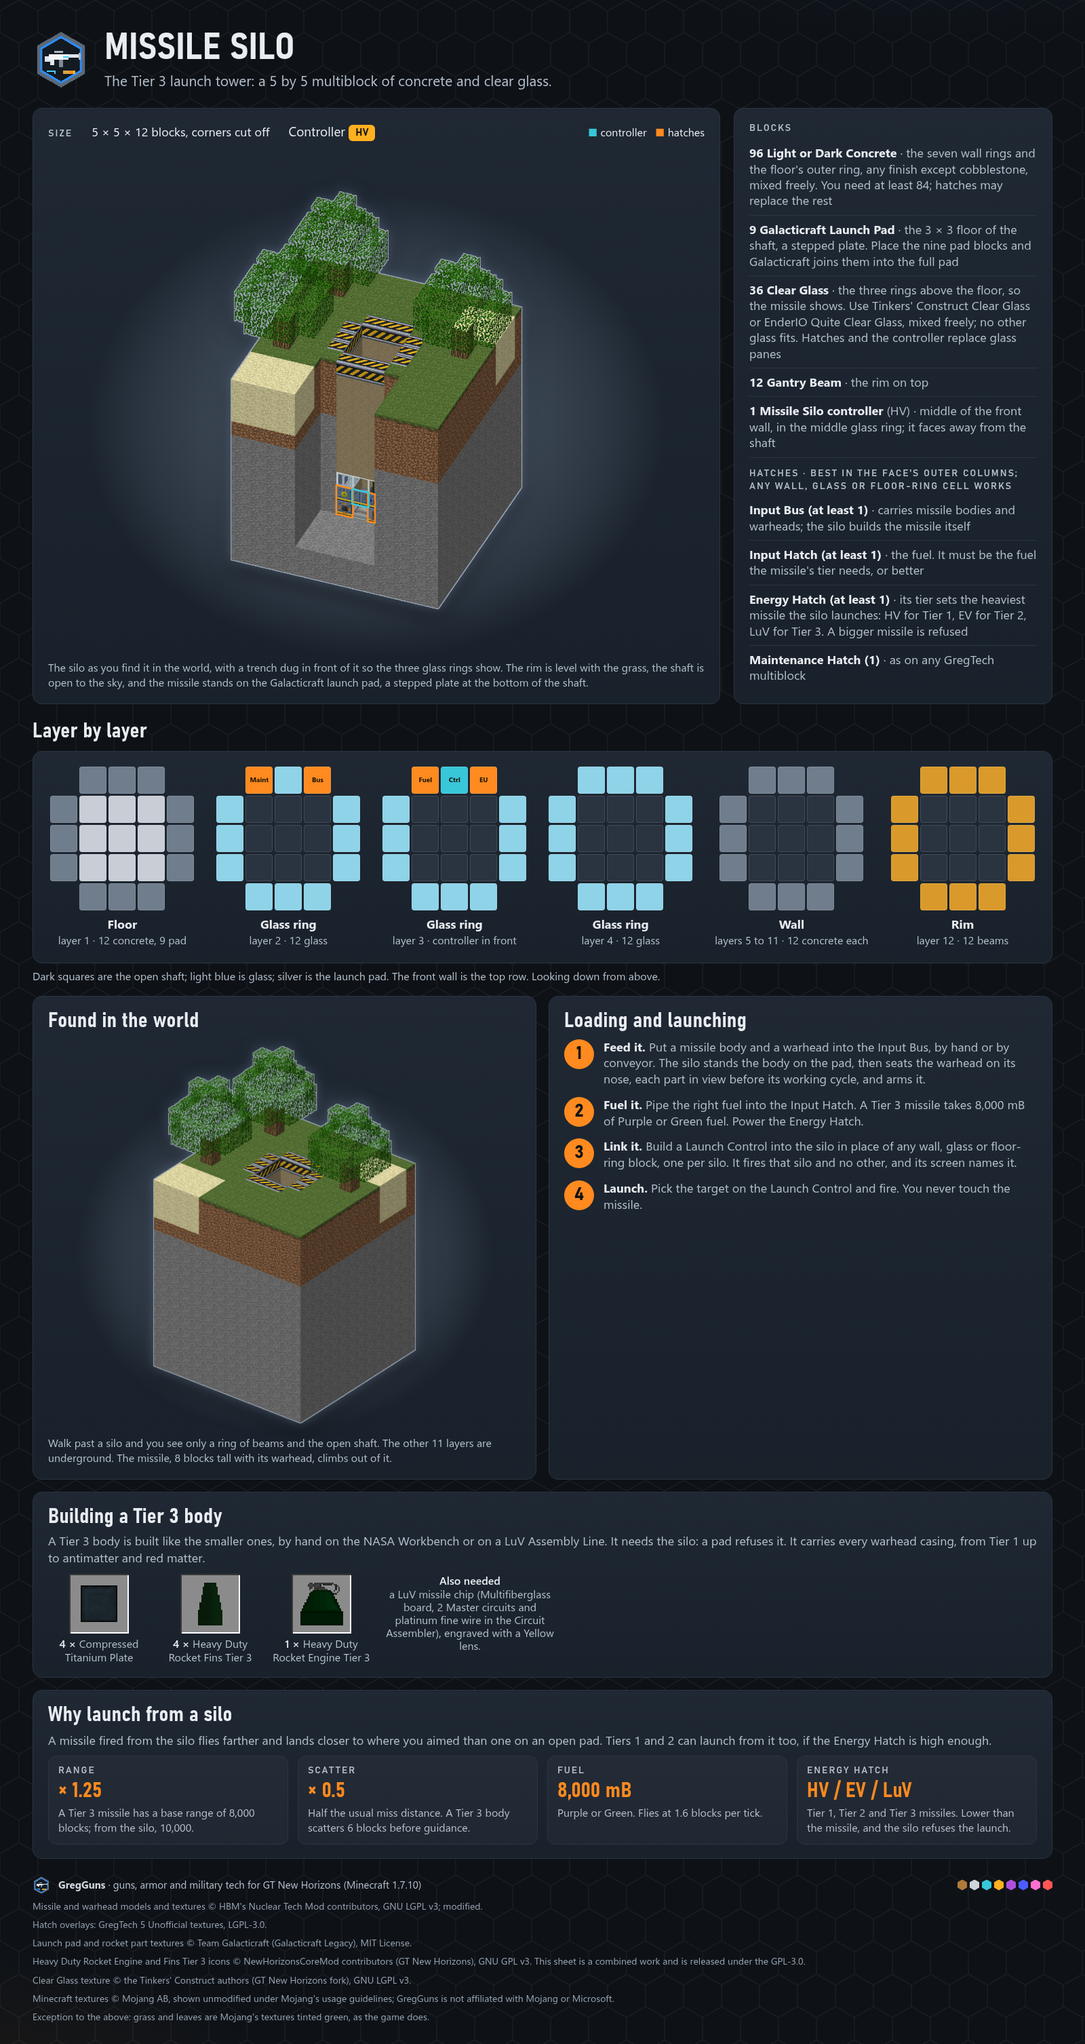
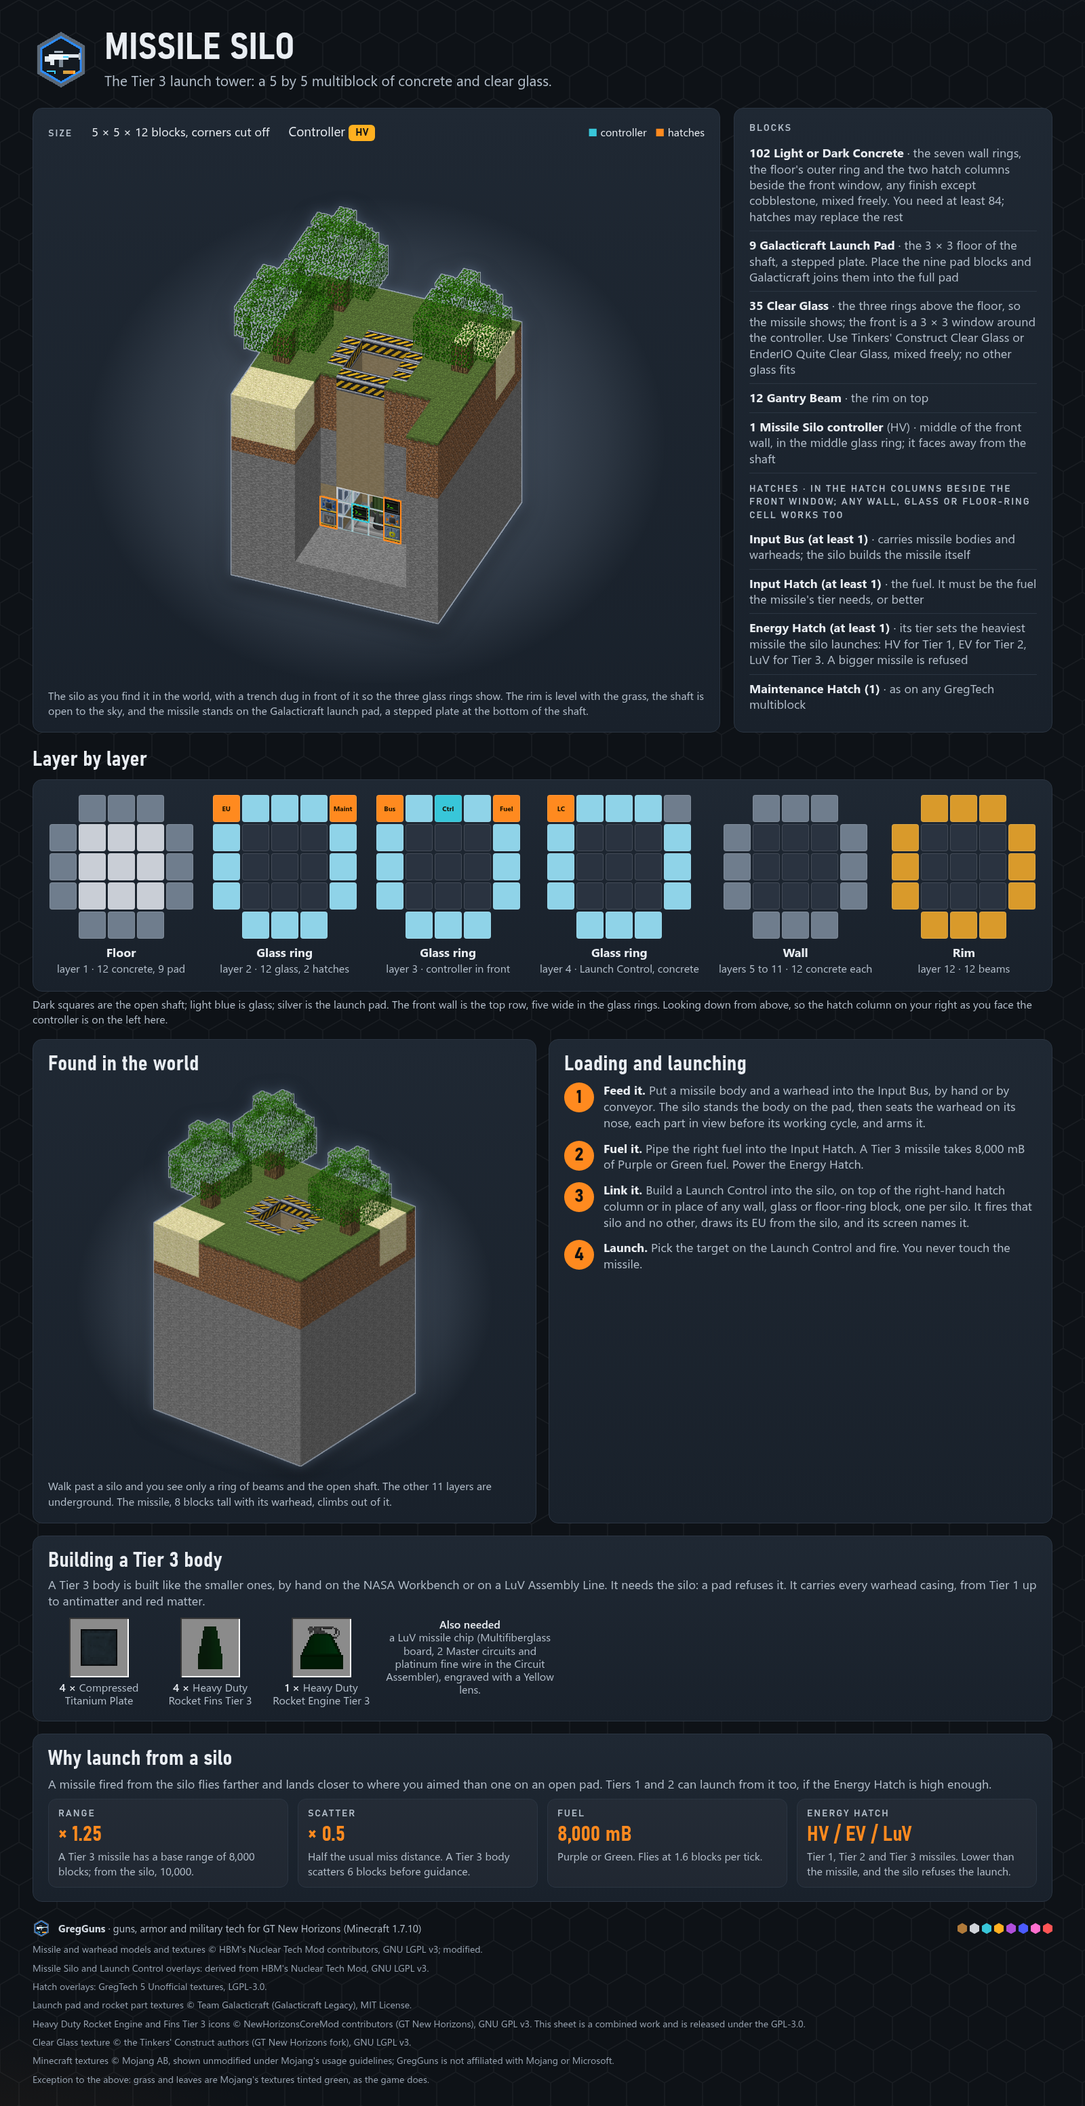
Silo guide sheets: five-wide front matching the owner's build, the silo's own Launch Control, the controller's real face, activity sign row

diff --git a/tools/asset-gen/infographics/pages_icbm_silo.py b/tools/asset-gen/infographics/pages_icbm_silo.py
@@ -3,8 +3,8 @@
 The silo is built from GregTech's Light Concrete art (walls), GregGuns' Gantry Beam art (rim) and Tinkers' Clear Glass, the hatches from GregTech's
 overlays, and the missile from the shipped NTM OBJ models seated as the game seats them. The cells come from the
 `SiloShape` strings when the silo coder's class is present; until then (and for the DRAFT stamp) they are generated
-from the layout in the silo sheet: a 5 x 5 plan with the four corners cut off, a 3 x 3 open shaft, a 21-cell floor,
-ten wall layers, and a ring of Gantry Beams on top.
+from the layout in the silo sheet: a 5 x 5 plan with the four corners cut off (but the two front ones in the glass
+rings, the hatch columns), a 3 x 3 open shaft, a 21-cell floor, ten wall layers, and a ring of Gantry Beams on top.
 
 Run on its own:  python tools/asset-gen/infographics/pages_icbm_silo.py
 """
@@ -51,13 +51,30 @@ def silo_cells() -> dict:
             cells[(x, y, z)] = "G" if y <= 3 else "C"
         cells[(x, 11, z)] = "B"
     cells[(2, 2, 0)] = "~"
+    # The front is five wide in the glass rings (D299): a hatch column of concrete on each side of the 3 x 3 window.
+    for y in range(1, 4):
+        cells[(0, y, 0)] = "C"
+        cells[(4, y, 0)] = "C"
     return cells
 
 
-# Where the sheet shows each hatch: the two outer columns of the controller's face, two high, so the missile shows through
-# the middle. Seen from the front: Input Hatch and Maintenance Hatch on the left, Energy Hatch and Input Bus on the right.
-HATCHES = [((1, 2, 0), "input_hatch", FRONT), ((1, 1, 0), "maintenance_hatch", FRONT),
-           ((3, 2, 0), "energy_hatch", FRONT), ((3, 1, 0), "input_bus", FRONT)]
+# Where the sheet shows each hatch (D299, the owner's build): the hatch columns beside the 3 x 3 glass window, two high.
+# Seen from the front: Input Hatch over Maintenance Hatch on the left, Input Bus over Energy Hatch on the right, and the
+# Launch Control on top of the right column. The renderer draws x = 0 on the right of a viewer facing the front (z = 0)
+# face, as SiloShape's column 0 is, so the right-hand column is x = 0.
+HATCHES = [((4, 2, 0), "input_hatch", FRONT), ((4, 1, 0), "maintenance_hatch", FRONT),
+           ((0, 2, 0), "input_bus", FRONT), ((0, 1, 0), "energy_hatch", FRONT)]
+LAUNCH_CONTROL = (0, 3, 0)
+LC_DIR = "thirdparty/ntm/launch_control"
+
+
+def launch_control_tex():
+    """The Launch Control as the game draws it: an HV hull with its NTM-derived overlays (top, side, front)."""
+    faces = {}
+    for face in ("TOP", "SIDE", "FRONT"):
+        faces[face] = B.composite(gt.hull("HV", "TOP" if face == "TOP" else "SIDE"), S._ov(LC_DIR, face),
+                                  cache=K.TEXCACHE, name=f"launch_control_HV_{face}")
+    return (faces["TOP"], faces["SIDE"], faces["FRONT"])
 
 
 def silo_build() -> S.Build:
@@ -66,10 +83,14 @@ def silo_build() -> S.Build:
     b.define("casing", "Light Concrete", gt.iconset("CONCRETE_LIGHT_STONE"), "walls and the floor ring; Light or Dark Concrete, any finish")
     b.define("beam", "Gantry Beam", S._casing("gantry_beam"), "the rim")
     b.define("glass", "Clear Glass", TP.TCONSTRUCT_GLASS, "Tinkers' Clear Glass or EnderIO Quite Clear Glass")
-    b.define("ctrl", "Missile Silo", (gc, gc, gc), "controller, middle of the front wall")
+    face = B.composite(gc, S._ov("thirdparty/ntm/missile_silo", "FRONT"), cache=K.TEXCACHE, name="missile_silo_FRONT")
+    b.define("ctrl", "Missile Silo", (gc, gc, face), "controller, middle of the front wall")
     b.put(silo_cells(), {"C": "casing", "G": "glass", "B": "beam", "~": ("ctrl", FRONT)})
     for pos, kind, facing in HATCHES:
         b.hatch(pos, kind, facing, gc)
+    b.define("h_launch_control", "Launch Control", launch_control_tex(), "on top of the right hatch column; it runs on the silo's EU")
+    b.blocks[LAUNCH_CONTROL] = ("h_launch_control", FRONT)
+    b.hatches.append(("h_launch_control", LAUNCH_CONTROL))
     return b
 
 
@@ -113,11 +134,13 @@ def ground_cells(extent=range(-4, 9), bottom=-3) -> dict:
 def render(b: S.Build, yaw=-35, pitch=28, ppu=34, cut=None, missile=True, marks=True, ground=False, bottom=-3) -> Path:
     files = [NTM / "missile_body_t3.obj", NTM / "warhead_t3.obj", TP.GC_PAD]
     tex_sig = hashlib.sha1(b"".join(f.read_bytes() for f in files)).hexdigest()[:8]
-    bl = dict(b.blocks)
+    bl = {}
     tex = dict(b.tex)
     if ground:
         bl.update(ground_cells(bottom=bottom))
         tex.update(TP.terrain_textures())
+    # The silo wins over the earth it is dug into (its front hatch columns stand in the cut corners).
+    bl.update(b.blocks)
     if cut is not None:
         bl = {p: v for p, v in bl.items() if not cut(*p)}
 
@@ -130,7 +153,7 @@ def render(b: S.Build, yaw=-35, pitch=28, ppu=34, cut=None, missile=True, marks=
         return R.trim(R.render(scene, yaw=yaw, pitch=pitch, ppu=ppu, ss=2, outline=K.RIM,
                                marks={1: K.MARK_HATCH, 2: K.MARK_CONTROLLER} if marks else None), 3)
     params = dict(k=sorted(map(str, bl.items())), t=sorted(map(str, tex.items())), y=yaw, p=pitch, u=ppu, m=missile,
-                  g=marks, s=tex_sig, v=7)
+                  g=marks, s=tex_sig, v=8)
     return K._cached("silo", params, make)
 
 
@@ -189,17 +212,19 @@ def silo() -> str:
     b = silo_build()
     cells = silo_cells()
     hp = {pos: HATCH_NAME[k] for pos, k, _ in HATCHES}
-    # View 2: a viewing trench dug in front of the glass rings (x 0..4, from the grass down to the shaft floor).
-    hero = render(b, yaw=-22, pitch=36, ppu=46, ground=True, bottom=-1, cut=lambda x, y, z: z < 0 and 0 <= x <= 4 and y >= 1)
+    hp[LAUNCH_CONTROL] = "LC"
+    # View 2: a viewing trench dug in front of the glass rings (from the grass down to the shaft floor), two blocks wider
+    # on the right-hand side (x < 0) so the camera, looking in from the left, sees the right-hand hatch column too.
+    hero = render(b, yaw=-22, pitch=36, ppu=46, ground=True, bottom=-1, cut=lambda x, y, z: z < 0 and -2 <= x <= 4 and y >= 1)
     # View 1: just the top shows.
     surface = render(b, yaw=-38, pitch=30, ppu=44, ground=True, missile=False, marks=False)
     n_casing = sum(1 for v in cells.values() if v == "C")
     n_glass = sum(1 for v in cells.values() if v == "G")
     n_beam = sum(1 for v in cells.values() if v == "B")
     layers = (layer_grid(0, cells, hp, "<b>Floor</b>layer 1 &middot; 12 concrete, 9 pad")
-              + layer_grid(1, cells, hp, "<b>Glass ring</b>layer 2 &middot; 12 glass")
+              + layer_grid(1, cells, hp, "<b>Glass ring</b>layer 2 &middot; 12 glass, 2 hatches")
               + layer_grid(2, cells, hp, "<b>Glass ring</b>layer 3 &middot; controller in front")
-              + layer_grid(3, cells, hp, "<b>Glass ring</b>layer 4 &middot; 12 glass")
+              + layer_grid(3, cells, hp, "<b>Glass ring</b>layer 4 &middot; Launch Control, concrete")
               + layer_grid(4, cells, hp, "<b>Wall</b>layers 5 to 11 &middot; 12 concrete each")
               + layer_grid(11, cells, {}, "<b>Rim</b>layer 12 &middot; 12 beams"))
     hatch_rows = "".join(
@@ -222,22 +247,22 @@ def silo() -> str:
 <div class="spot" style="flex:1;display:flex;align-items:center;justify-content:center;padding:10px 0;margin-top:8px">{img(hero, h=620, style="max-width:100%")}</div>
 <div class="muted" style="font-size:16px;margin-top:8px">The silo as you find it in the world, with a trench dug in front of it so the three glass rings show. The rim is level with the grass, the shaft is open to the sky, and the missile stands on the Galacticraft launch pad, a stepped plate at the bottom of the shaft.</div></div>
 <div class="card"><div class="label" style="margin-bottom:6px">Blocks</div>
-<div class="req"><div class="t" style="grid-column:1/3"><b>{n_casing} Light or Dark Concrete</b> &middot; the seven wall rings and the floor's outer ring, any finish except cobblestone, mixed freely. You need at least 84; hatches may replace the rest</div></div>
+<div class="req"><div class="t" style="grid-column:1/3"><b>{n_casing} Light or Dark Concrete</b> &middot; the seven wall rings, the floor's outer ring and the two hatch columns beside the front window, any finish except cobblestone, mixed freely. You need at least 84; hatches may replace the rest</div></div>
 <div class="req"><div class="t" style="grid-column:1/3"><b>9 Galacticraft Launch Pad</b> &middot; the 3 &times; 3 floor of the shaft, a stepped plate. Place the nine pad blocks and Galacticraft joins them into the full pad</div></div>
-<div class="req"><div class="t" style="grid-column:1/3"><b>{n_glass + 1} Clear Glass</b> &middot; the three rings above the floor, so the missile shows. Use Tinkers&#39; Construct Clear Glass or EnderIO Quite Clear Glass, mixed freely; no other glass fits. Hatches and the controller replace glass panes</div></div>
+<div class="req"><div class="t" style="grid-column:1/3"><b>{n_glass} Clear Glass</b> &middot; the three rings above the floor, so the missile shows; the front is a 3 &times; 3 window around the controller. Use Tinkers&#39; Construct Clear Glass or EnderIO Quite Clear Glass, mixed freely; no other glass fits</div></div>
 <div class="req"><div class="t" style="grid-column:1/3"><b>{n_beam} Gantry Beam</b> &middot; the rim on top</div></div>
 <div class="req"><div class="t" style="grid-column:1/3"><b>1 Missile Silo controller</b> (HV) &middot; middle of the front wall, in the middle glass ring; it faces away from the shaft</div></div>
-<div class="label" style="margin:14px 0 4px">Hatches &middot; best in the face&#39;s outer columns; any wall, glass or floor-ring cell works</div>{hatch_rows}</div></div>
+<div class="label" style="margin:14px 0 4px">Hatches &middot; in the hatch columns beside the front window; any wall, glass or floor-ring cell works too</div>{hatch_rows}</div></div>
 <h2 style="margin:24px 0 12px">Layer by layer</h2>
 <div class="card" style="display:flex;justify-content:space-around;gap:10px;padding:22px 14px">{layers}</div>
-<div class="muted" style="font-size:16px;margin-top:8px">Dark squares are the open shaft; light blue is glass; silver is the launch pad. The front wall is the top row. Looking down from above.</div>
+<div class="muted" style="font-size:16px;margin-top:8px">Dark squares are the open shaft; light blue is glass; silver is the launch pad. The front wall is the top row, five wide in the glass rings. Looking down from above, so the hatch column on your right as you face the controller is on the left here.</div>
 <div class="grid" style="grid-template-columns:1fr 1fr;margin-top:18px">
 <div class="card"><h2 style="margin-bottom:8px">Found in the world</h2><div class="spot" style="display:flex;justify-content:center;padding:10px">{img(surface, h=560, style="max-width:100%")}</div>
 <div class="muted" style="font-size:16px;margin-top:6px">Walk past a silo and you see only a ring of beams and the open shaft. The other 11 layers are underground. The missile, 8 blocks tall with its warhead, climbs out of it.</div></div>
 <div class="card"><h2 style="margin-bottom:10px">Loading and launching</h2><div style="display:flex;flex-direction:column;gap:14px">
 <div class="step"><span class="num">1</span><div class="t"><b>Feed it.</b> Put a missile body and a warhead into the Input Bus, by hand or by conveyor. The silo stands the body on the pad, then seats the warhead on its nose, each part in view before its working cycle, and arms it.</div></div>
 <div class="step"><span class="num">2</span><div class="t"><b>Fuel it.</b> Pipe the right fuel into the Input Hatch. A Tier 3 missile takes 8,000 mB of Purple or Green fuel. Power the Energy Hatch.</div></div>
-<div class="step"><span class="num">3</span><div class="t"><b>Link it.</b> Build a Launch Control into the silo in place of any wall, glass or floor-ring block, one per silo. It fires that silo and no other, and its screen names it.</div></div>
+<div class="step"><span class="num">3</span><div class="t"><b>Link it.</b> Build a Launch Control into the silo, on top of the right-hand hatch column or in place of any wall, glass or floor-ring block, one per silo. It fires that silo and no other, draws its EU from the silo, and its screen names it.</div></div>
 <div class="step"><span class="num">4</span><div class="t"><b>Launch.</b> Pick the target on the Launch Control and fire. You never touch the missile.</div></div></div></div></div>
 <div class="card" style="margin-top:18px"><h2 style="margin-bottom:6px">Building a Tier 3 body</h2>
 <div class="muted" style="font-size:18px;margin-bottom:12px">A Tier 3 body is built like the smaller ones, by hand on the NASA Workbench or on a LuV Assembly Line. It needs the silo: a pad refuses it. It carries every warhead casing, from Tier 1 up to antimatter and red matter.</div>
@@ -252,6 +277,7 @@ def silo() -> str:
     return page_doc("Missile Silo", "The Tier 3 launch tower: a 5 by 5 multiblock of concrete and clear glass.", body,
                     extra=CSS + TP.PART_CSS,
                     credit=["Missile and warhead models and textures © HBM's Nuclear Tech Mod contributors, GNU LGPL v3; modified.",
+                            "Missile Silo and Launch Control overlays: derived from HBM's Nuclear Tech Mod, GNU LGPL v3.",
                             "Hatch overlays: GregTech 5 Unofficial textures, LGPL-3.0.", TP.GC_CREDIT, TP.CORE_CREDIT, TP.TC_CREDIT,
                             MOJANG_CREDIT, TP.TINT_CREDIT])
 

diff --git a/tools/asset-gen/infographics/pages_icbm_silos.py b/tools/asset-gen/infographics/pages_icbm_silos.py
@@ -445,23 +445,17 @@ def radar_station(formed: bool) -> Path:
 
 
 def silo_front(missing: str | None) -> Path:
-    """The front wall of a complex silo, with the controller and hatches where the complex places them. missing: None, "controller" or "hatch"."""
+    """The front wall of a complex silo, with the controller, hatches and Launch Control where the complex places them
+    (D299: hatch columns beside a 3 x 3 glass window). missing: None, "controller" or "hatch"."""
     b = SILO.silo_build()
-    cells = SILO.silo_cells()
-    for pos, _, _ in SILO.HATCHES:
-        b.blocks[pos] = {"C": "casing", "G": "glass", "B": "beam"}[cells[pos]]
-    b.hatches = []
-    gc = S._casing("gantry_casing")
     b.blocks[(2, 2, 0)] = "casing" if missing == "controller" else ("ctrl", FRONT)
-    # Seen from the front: Input Hatch and Maintenance Hatch on the left, Energy Hatch and Input Bus on the right.
-    b.hatch((1, 2, 0), "input_hatch", FRONT, gc)
-    b.hatch((1, 1, 0), "maintenance_hatch", FRONT, gc)
-    b.hatch((3, 1, 0), "input_bus", FRONT, gc)
-    if missing != "hatch":
-        b.hatch((3, 2, 0), "energy_hatch", FRONT, gc)
-    else:
-        b.blocks[(3, 2, 0)] = "glass"
-    return SILO.render(b, yaw=-22, pitch=22, ppu=84, ground=False, missile=False, marks=True, cut=lambda x, y, z: y > 3 or z > 1)
+    if missing == "hatch":
+        # The Energy Hatch's cell keeps the hatch column's concrete.
+        pos = next(p for p, k, _ in SILO.HATCHES if k == "energy_hatch")
+        b.blocks[pos] = "casing"
+        b.hatches = [h for h in b.hatches if h[1] != pos]
+    return SILO.render(b, yaw=-22, pitch=22, ppu=84, ground=False, missile=False, marks=True,
+                       cut=lambda x, y, z: y > 3 or z > 1)
 
 
 def hull_block(tier: str) -> Path:
@@ -617,6 +611,7 @@ def activity_table() -> str:
         row("Silo walkways, Launch Control", shaft, "at least this chance"),
         row("Schematic chip in a chest", [pct(p["chip"]) for p in P], "Safe, Comms or Control chest"),
         row("The silo's missing part in a chest", [pct(p["part"]) for p in P], "one part per silo"),
+        row("Hub sign, Activity Level", ["Alpha", "Bravo", "Charlie"], "under the Silo Complex sign"),
     ]
     tot = sum(ACT_WEIGHTS)
     ths = "".join(f'<th style="text-align:center;color:{LEVEL_COLOR[i]};vertical-align:top;width:25%"><span style="font-size:22px">{lv}</span>'
@@ -799,13 +794,13 @@ On the Moon and Mars, rugged rooms use local rock and brick. All of it mines to 
 <div class="card"><div class="pt" style="margin-bottom:10px">Every silo in a complex is a real <b>Missile Silo</b>, built from the same structure you would build yourself, with its bus and hatches in place. Each is missing <b>exactly one part</b>. Put it back and the silo forms.</div>
 <div style="display:grid;grid-template-columns:repeat(3,1fr);gap:18px">
 <div style="text-align:center"><div class="spot">{img(front[0], h=250)}</div><div class="cap"><b style="color:var(--txt)">No controller.</b> A concrete block stands in the middle of the front wall.</div></div>
-<div style="text-align:center"><div class="spot">{img(front[1], h=250)}</div><div class="cap"><b style="color:var(--txt)">No Energy Hatch.</b> A clear glass block stands where the Energy Hatch goes, beside the controller.</div></div>
-<div style="text-align:center"><div class="spot">{img(front[2], h=250)}</div><div class="cap"><b style="color:var(--txt)">Repaired.</b> The controller (blue ring) and the hatches (orange rings) in their places.</div></div></div>
+<div style="text-align:center"><div class="spot">{img(front[1], h=250)}</div><div class="cap"><b style="color:var(--txt)">No Energy Hatch.</b> A concrete block stands where the Energy Hatch goes, at the foot of the right-hand hatch column.</div></div>
+<div style="text-align:center"><div class="spot">{img(front[2], h=250)}</div><div class="cap"><b style="color:var(--txt)">Repaired.</b> The controller (blue ring), the hatches and the silo&#39;s own Launch Control (orange rings) in their places.</div></div></div>
 <div style="display:grid;grid-template-columns:repeat(4,1fr);gap:18px;margin-top:16px">
 <div class="step"><span class="num">1</span><div class="t"><b>Clear the way.</b> An operational complex always has an elite post at each silo walkway, and a partly abandoned one often does. Mine their spawners (slow by hand), blow them up with a warhead, or fight what they spawn.</div></div>
 <div class="step"><span class="num">2</span><div class="t"><b>Find the part.</b> Check the Safe, Stockpile, Workshop and Control chests: about {pct(PROFILES[0]["part"])} of abandoned, {pct(PROFILES[1]["part"])} of partly abandoned and {pct(PROFILES[2]["part"])} of operational silos have theirs lying in one. A missing part is not lost: the controller and a GregTech Energy Hatch are both craftable.</div></div>
-<div class="step"><span class="num">3</span><div class="t"><b>Put it in.</b> Mine the concrete and set the controller facing out, or mine the glass and set the Energy Hatch in its place. The silo forms and switches itself on.</div></div>
-<div class="step"><span class="num">4</span><div class="t"><b>Power and launch.</b> Run EU to the Energy Hatch. A found hatch is EV, which launches up to Tier 2; fit a LuV hatch for Tier 3. Then add a Launch Control, fuel and a missile as for any silo.</div></div></div></div></div>
+<div class="step"><span class="num">3</span><div class="t"><b>Put it in.</b> Mine the concrete and set the controller facing out, or mine the concrete at the foot of the right-hand hatch column and set the Energy Hatch there. The silo forms and switches itself on.</div></div>
+<div class="step"><span class="num">4</span><div class="t"><b>Power and launch.</b> Run EU to the Energy Hatch. A found hatch is EV, which launches up to Tier 2; fit a LuV hatch for Tier 3. Then fuel it, load a missile and fire it from the silo&#39;s own Launch Control, on top of the right-hand hatch column: it runs on the silo&#39;s EU.</div></div></div></div></div>
 
 <div class="sec"><div style="display:grid;grid-template-columns:1.25fr 1fr;gap:20px">
 <div class="card"><h2>The radar station</h2>
@@ -822,7 +817,7 @@ On the Moon and Mars, rugged rooms use local rock and brick. All of it mines to 
 <div class="cap">Dig down under the coordinates to find it. A stick can point at a place where the terrain turned the complex away, so go prepared.</div></div></div></div>
 """
     credit = [
-        "Silo Complex Wall: Steel Bastion Plating art, with connected textures. Radar Casing, dish and radar controller overlay: derived from HBM's Nuclear Tech Mod, GNU LGPL v3; modified.",
+        "Silo Complex Wall: Steel Bastion Plating art, with connected textures. Radar Casing, dish, radar controller, Missile Silo and Launch Control overlays: derived from HBM's Nuclear Tech Mod, GNU LGPL v3; modified.",
         "Machine hulls, hatch overlays and Light and Dark Concrete Bricks: GregTech 5 Unofficial textures, LGPL-3.0. Hut casings and the Silo Complex Wall: GregGuns art, MIT. Guard posts: the Minecraft monster spawner (Mojang).",
         TP.GC_CREDIT, TP.TC_CREDIT, MOJANG_CREDIT, TP.TINT_CREDIT,
     ]
